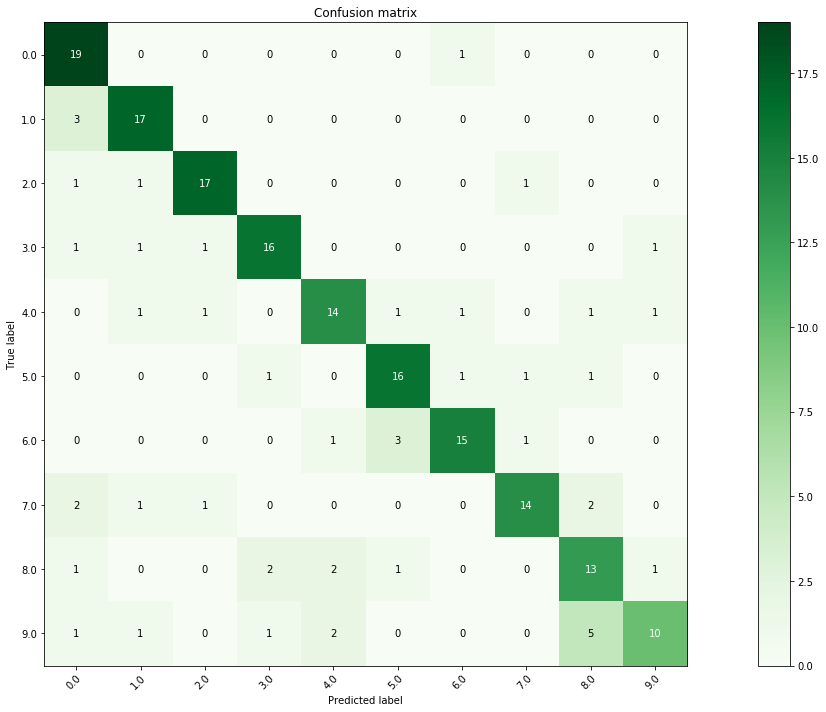
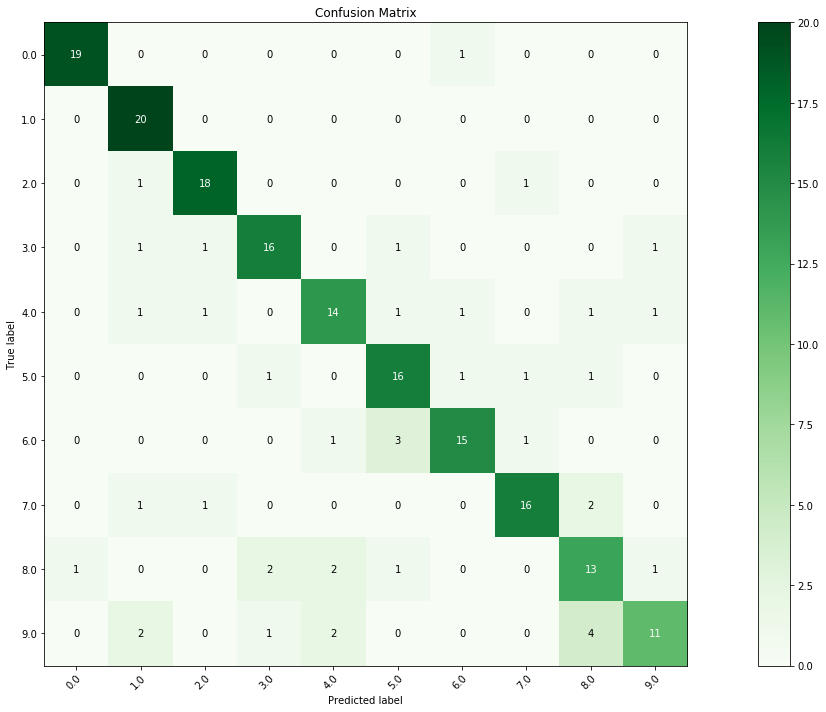
.

diff --git a/README.md b/README.md
@@ -257,7 +257,7 @@ Accuracy = 100*np.sum(t == lbls_T)/len(lbls_T)
 print(f"Accuracy of predicted labels = {Accuracy}% with image 23 x 23")
 ```
 
-    Accuracy of predicted labels = 75.5% with image 23 x 23
+    Accuracy of predicted labels = 79.0% with image 23 x 23
 
 
 # Confusion matrix and classification report:
@@ -282,37 +282,37 @@ print(classification_report(lbls_T, t))
 
     Confusion Matrix: 
     [[19  0  0  0  0  0  1  0  0  0]
-     [ 3 17  0  0  0  0  0  0  0  0]
-     [ 1  1 17  0  0  0  0  1  0  0]
-     [ 1  1  1 16  0  0  0  0  0  1]
+     [ 0 20  0  0  0  0  0  0  0  0]
+     [ 0  1 18  0  0  0  0  1  0  0]
+     [ 0  1  1 16  0  1  0  0  0  1]
      [ 0  1  1  0 14  1  1  0  1  1]
      [ 0  0  0  1  0 16  1  1  1  0]
      [ 0  0  0  0  1  3 15  1  0  0]
-     [ 2  1  1  0  0  0  0 14  2  0]
+     [ 0  1  1  0  0  0  0 16  2  0]
      [ 1  0  0  2  2  1  0  0 13  1]
-     [ 1  1  0  1  2  0  0  0  5 10]]
+     [ 0  2  0  1  2  0  0  0  4 11]]
     
     
-    Accuracy Score : 0.755
+    Accuracy Score : 0.79
     
     
     Report : 
                   precision    recall  f1-score   support
     
-             0.0       0.68      0.95      0.79        20
-             1.0       0.77      0.85      0.81        20
-             2.0       0.85      0.85      0.85        20
+             0.0       0.95      0.95      0.95        20
+             1.0       0.77      1.00      0.87        20
+             2.0       0.86      0.90      0.88        20
              3.0       0.80      0.80      0.80        20
              4.0       0.74      0.70      0.72        20
-             5.0       0.76      0.80      0.78        20
+             5.0       0.73      0.80      0.76        20
              6.0       0.83      0.75      0.79        20
-             7.0       0.82      0.70      0.76        20
-             8.0       0.59      0.65      0.62        20
-             9.0       0.77      0.50      0.61        20
+             7.0       0.84      0.80      0.82        20
+             8.0       0.62      0.65      0.63        20
+             9.0       0.79      0.55      0.65        20
     
-        accuracy                           0.76       200
-       macro avg       0.76      0.76      0.75       200
-    weighted avg       0.76      0.76      0.75       200
+        accuracy                           0.79       200
+       macro avg       0.79      0.79      0.79       200
+    weighted avg       0.79      0.79      0.79       200
     
 
 
@@ -321,7 +321,7 @@ print(classification_report(lbls_T, t))
 
 ```python
 plt.rcParams["figure.figsize"] = (20,10)
-title = 'Confusion matrix'
+title = 'Confusion Matrix'
 
 cmap = plt.cm.Greens
 classes = np.unique(lbls_T)
